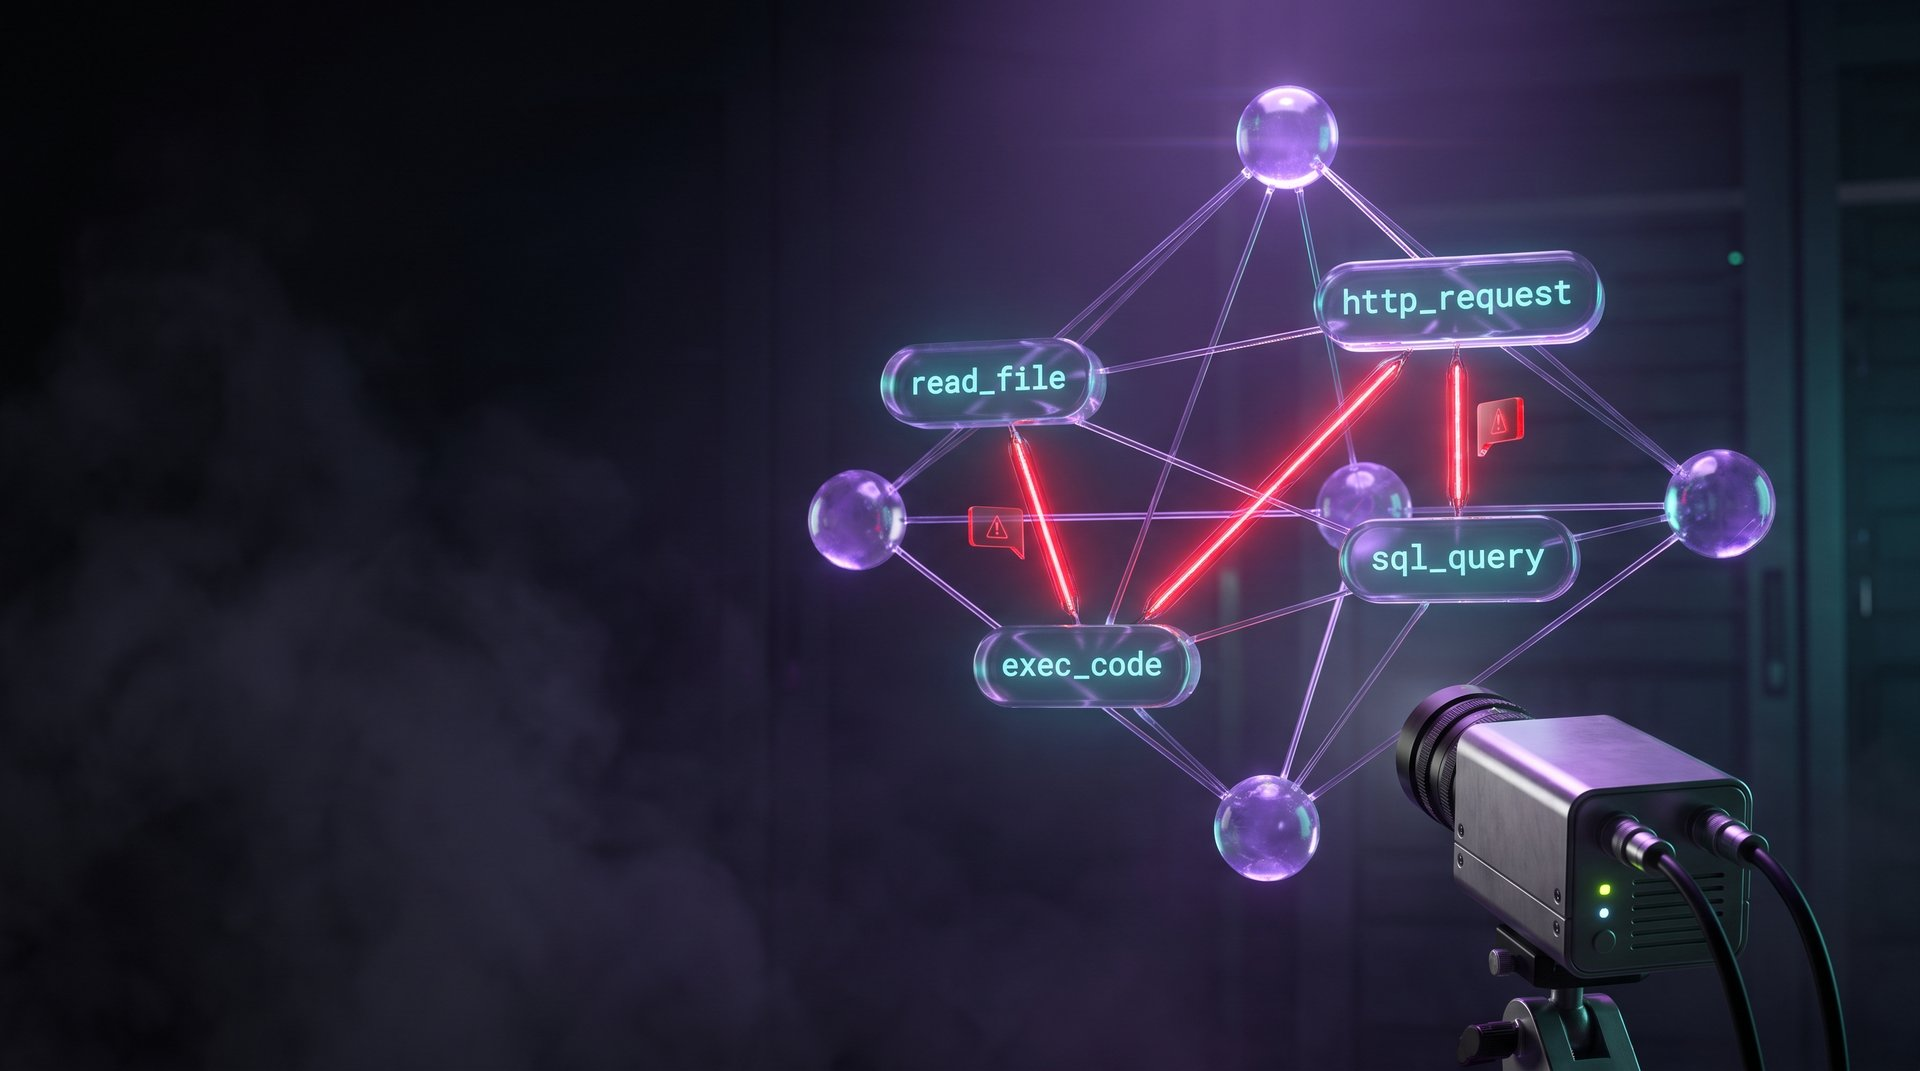
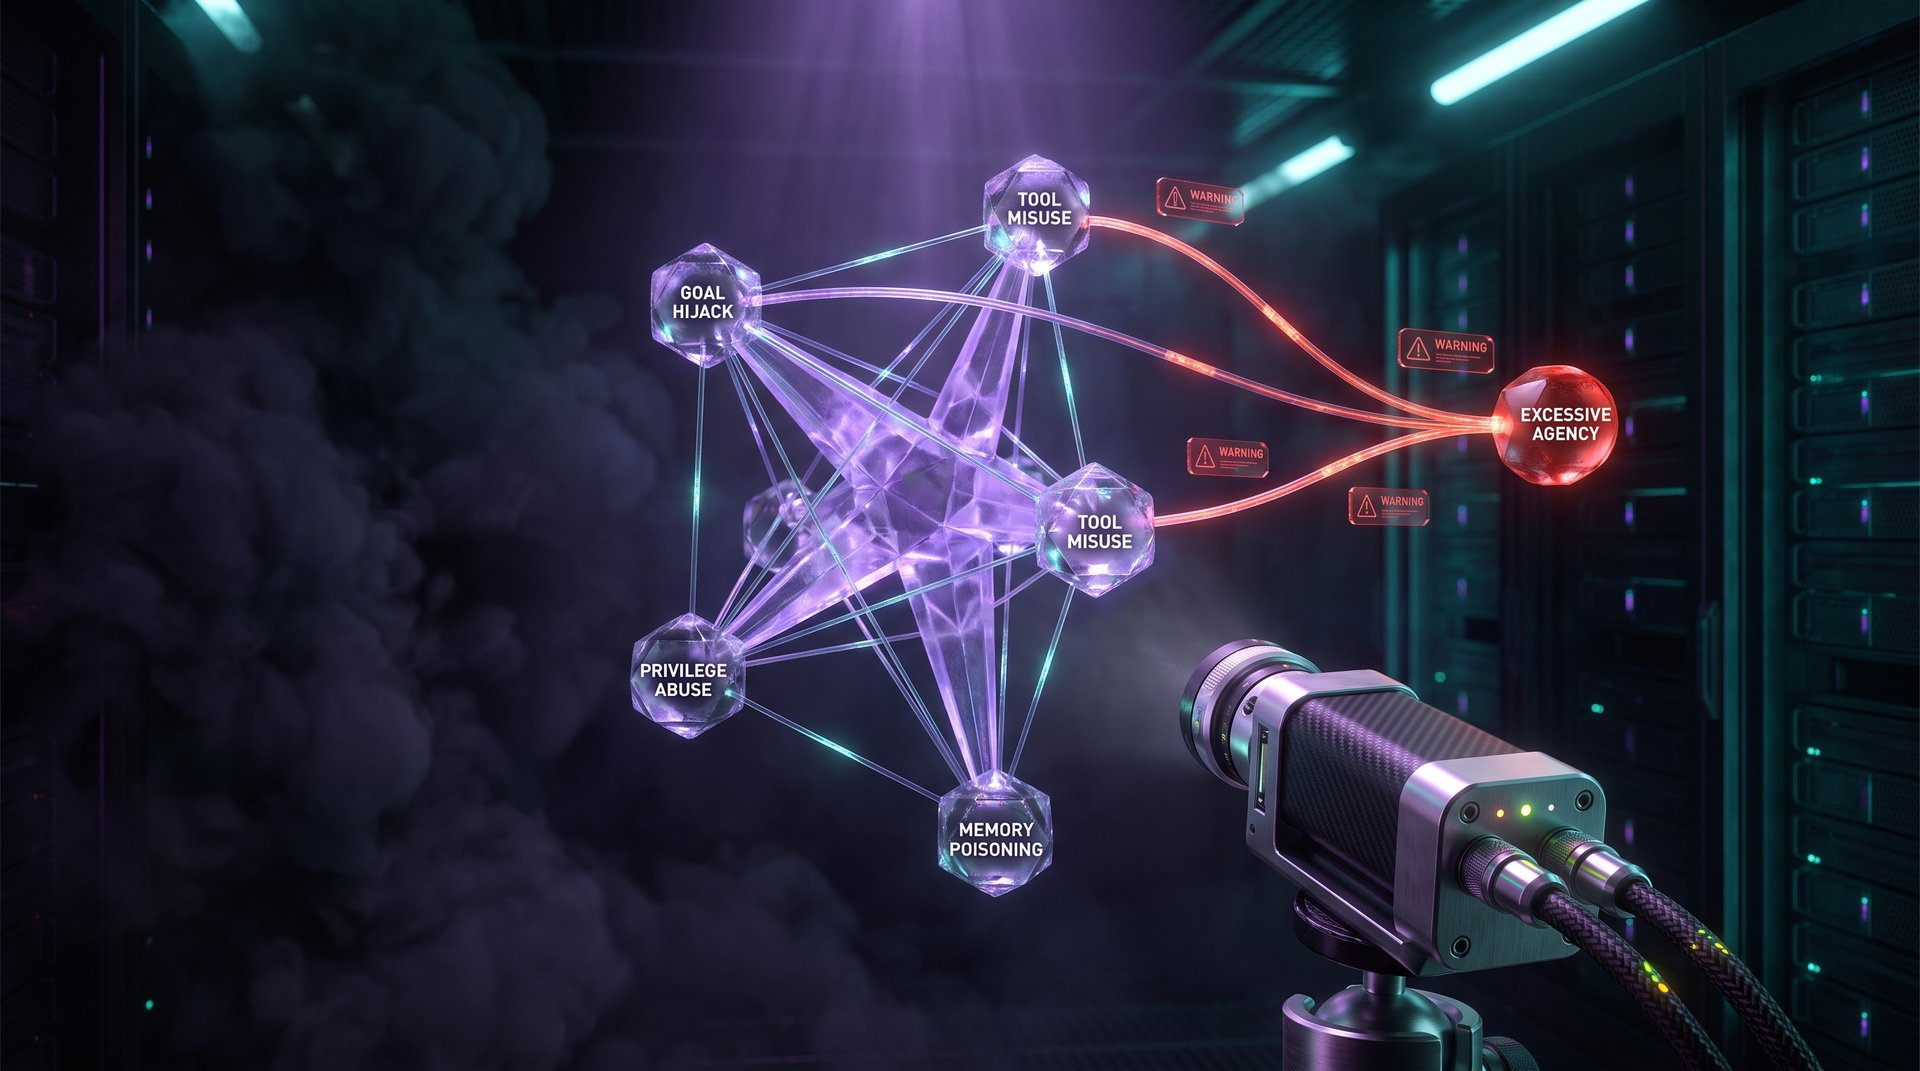
Regenerate Security hero with current agentic AI security terminology
The previous version used generic function-call names (read_file,
http_request, sql_query, exec_code) -- old classic-appsec vocabulary,
not specific to agentic AI. Researched the actual current terminology
before regenerating: the OWASP Top 10 for Agentic Applications
(released Dec 2025). Cross-checked two independent summaries of the
list since the exact ASI0x numbering differs between sources this
early in the framework's life, so the image uses only the risk-category
terms that are consistent across sources rather than a specific
(possibly-wrong) code number: Goal Hijack, Tool Misuse, Privilege
Abuse, Memory Poisoning, converging into Excessive Agency -- the
compounded risk the graph-based approach exists to catch.

diff --git a/src/routes/security.tsx b/src/routes/security.tsx
@@ -160,7 +160,7 @@ function SecurityPage() {
         >
           <img
             src="/images/security-hero.jpg"
-            alt="A graph of agent tools — read_file, http_request, sql_query, exec_code — with two dangerous connecting paths flagged in red, the compositions a list-based scanner would miss"
+            alt="A graph of agentic AI risk categories from the OWASP Top 10 for Agentic Applications — goal hijack, tool misuse, privilege abuse, memory poisoning — with dangerous connecting paths flagged in red, converging into excessive agency"
             className="absolute inset-0 h-full w-full object-cover"
             loading="lazy"
           />
